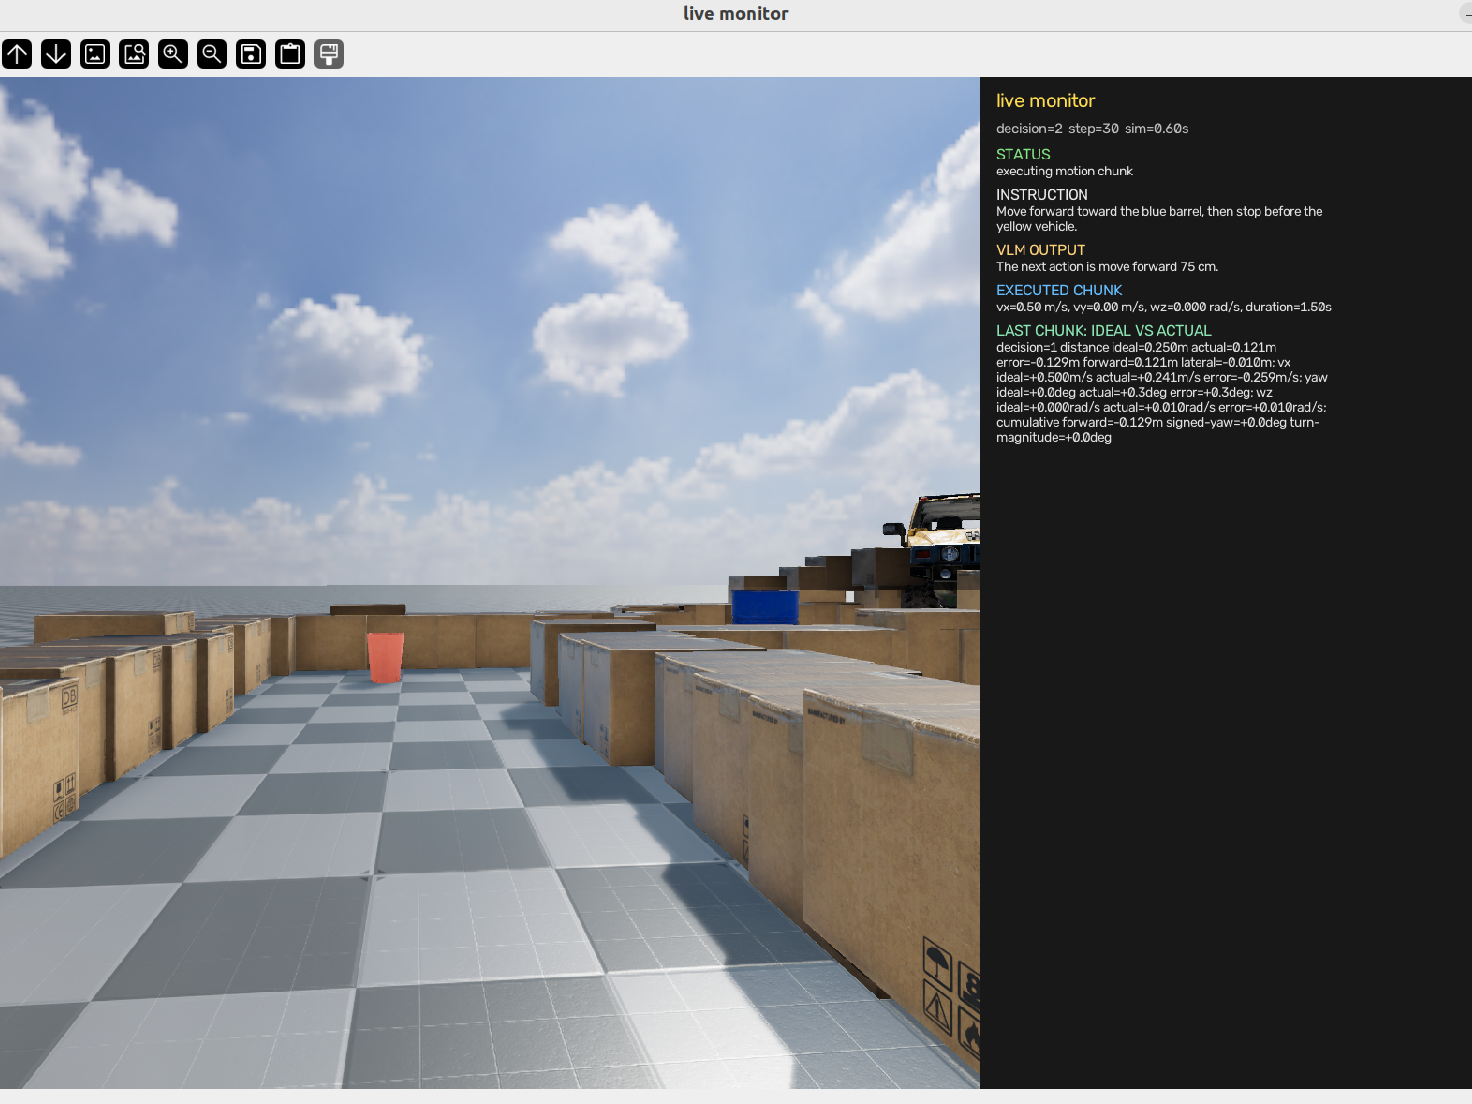
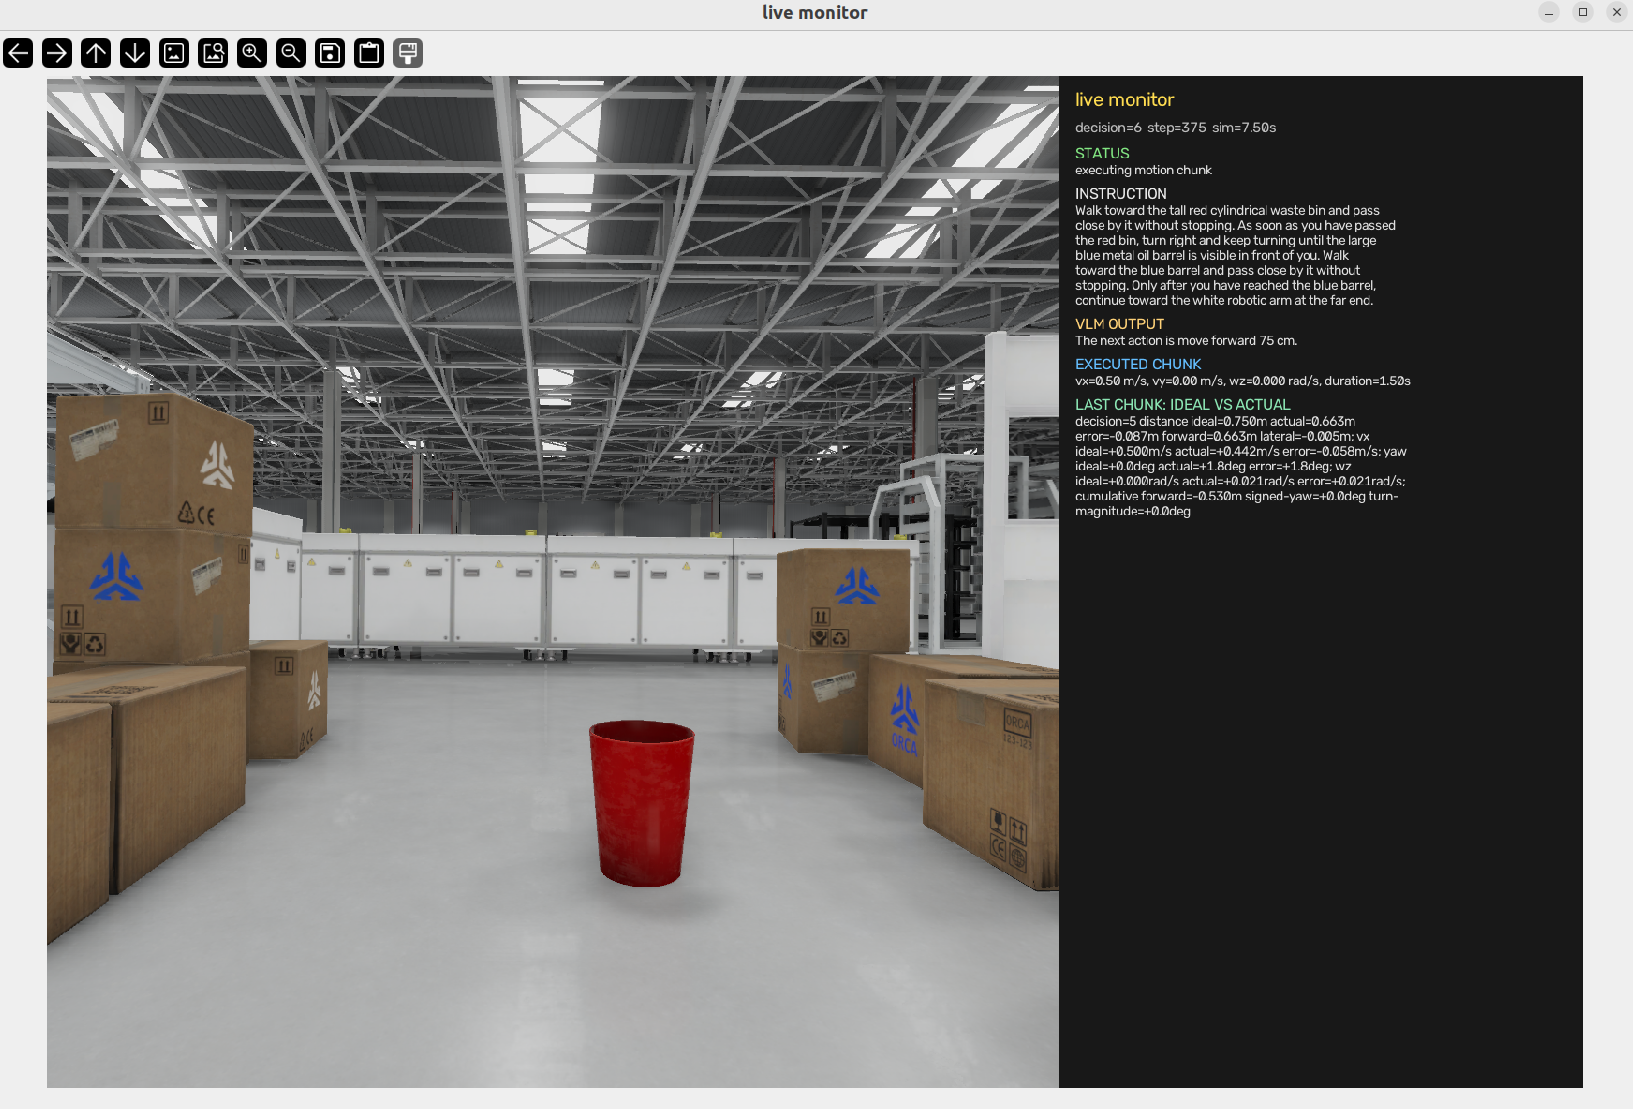
docs: refresh factory presentation images

diff --git a/README.md b/README.md
@@ -19,7 +19,7 @@
 </p>
 
 <p align="center">
-  <img src="NaVILA-Orca/assets/presentation/warehouse-overview.png" alt="OrcaLab warehouse navigation scene" width="48%" />
+  <img src="NaVILA-Orca/assets/presentation/warehouse-overview.png" alt="OrcaLab factory navigation scene" width="48%" />
   <img src="NaVILA-Orca/assets/presentation/live-monitor.png" alt="Orca_VLN live monitor" width="48%" />
 </p>
 

diff --git a/README_zh.md b/README_zh.md
@@ -19,7 +19,7 @@
 </p>
 
 <p align="center">
-  <img src="NaVILA-Orca/assets/presentation/warehouse-overview.png" alt="OrcaLab 仓库导航场景" width="48%" />
+  <img src="NaVILA-Orca/assets/presentation/warehouse-overview.png" alt="OrcaLab 工厂导航场景" width="48%" />
   <img src="NaVILA-Orca/assets/presentation/live-monitor.png" alt="Orca_VLN 实时监视器" width="48%" />
 </p>
 
